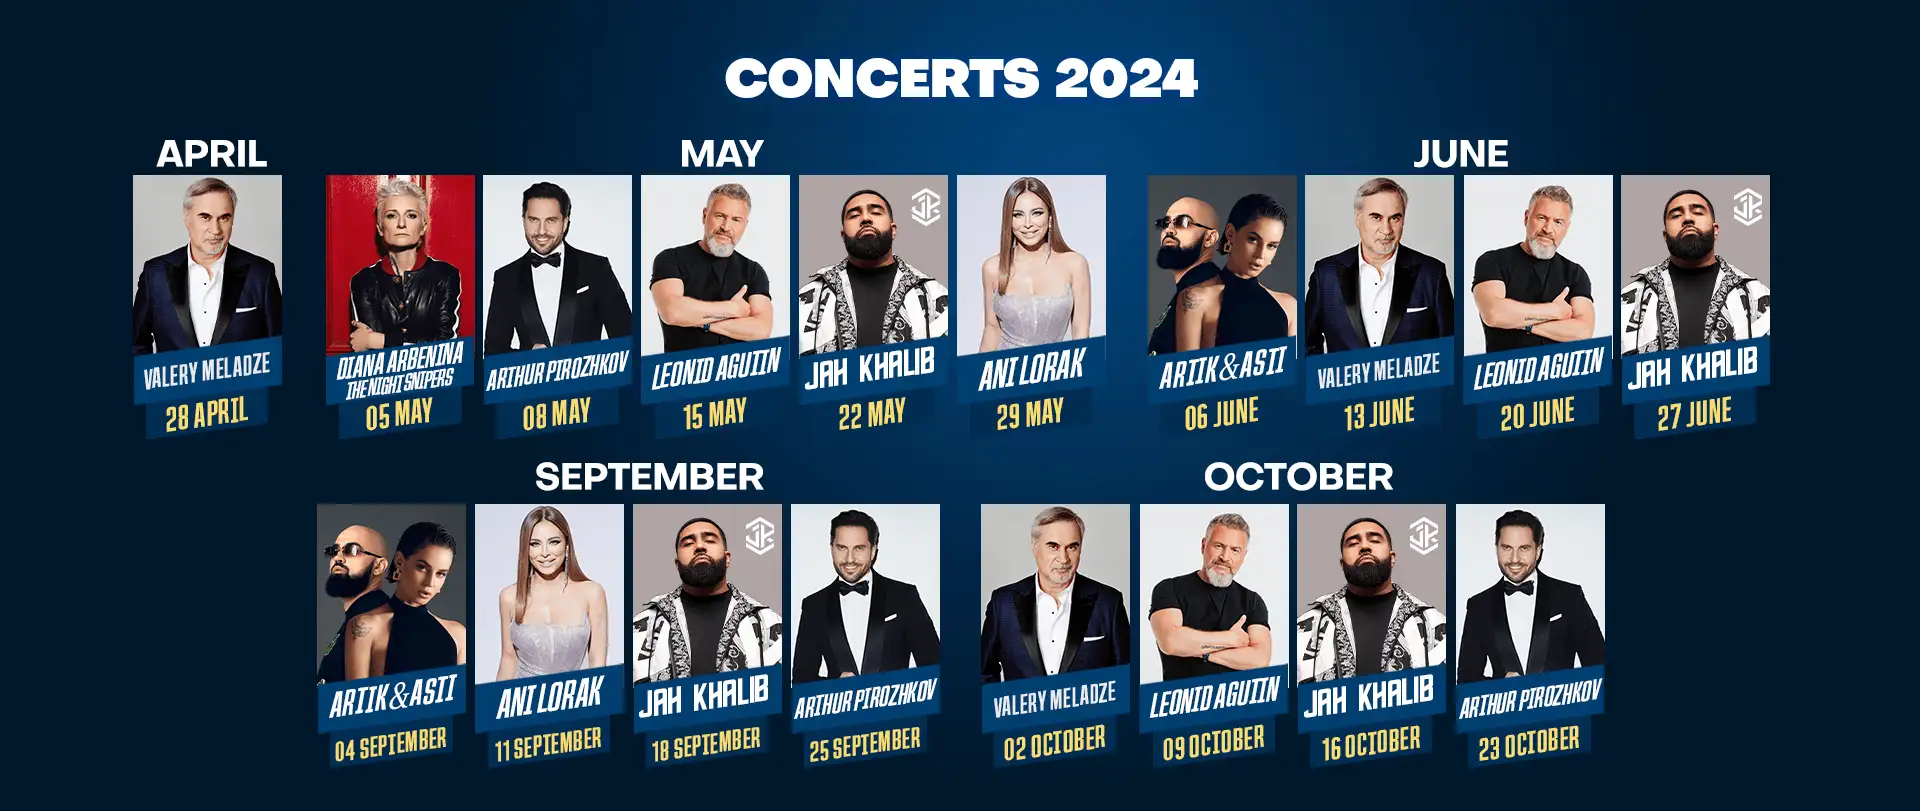
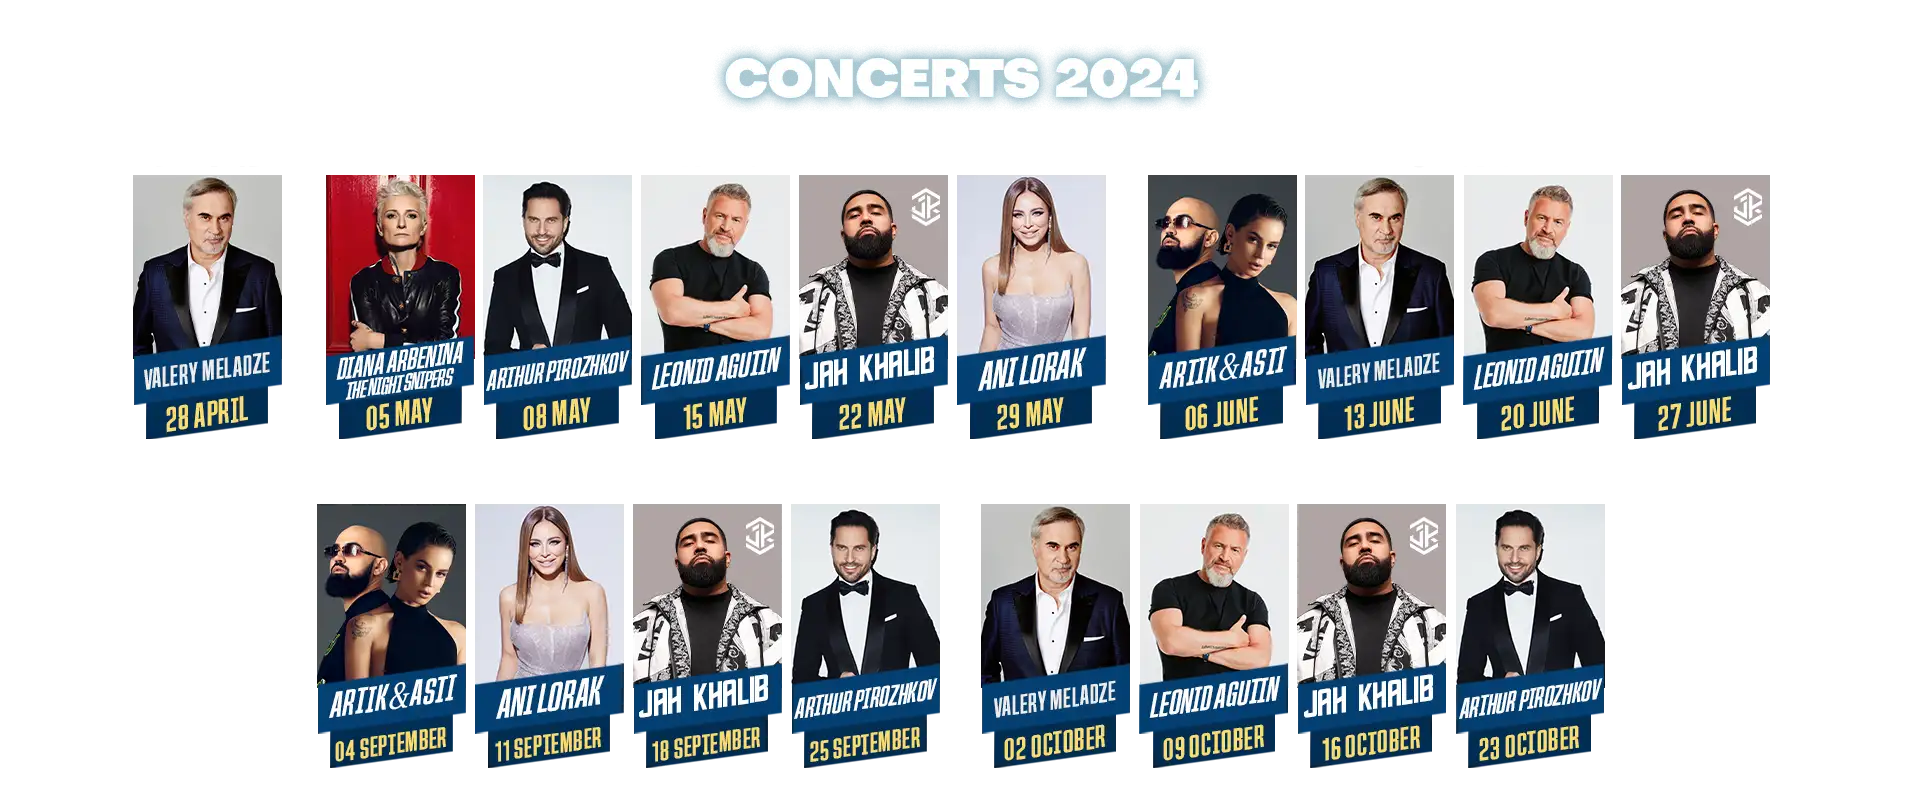
fix

diff --git a/resources/views/components/home/heroSwiper.blade.php b/resources/views/components/home/heroSwiper.blade.php
@@ -16,13 +16,17 @@
 
 @endphp
 
-<div id="heroSwiperWrapper">
+<div class="tempheaderBg">
+    &nbsp;
+</div>
+
+<div class="heroSwiperWrapper" id="heroSwiperWrapper ">
     <div class="swiper-container heroTopSwiper">
-        <div class="heroText">
+        {{-- <div class="heroText">
             <h1>{!! $translation[$lang]['h1'] !!}</h1>
             <img loading="lazy" class="heroLogo" src="{{ asset('assets/frontend/images/home/heroLogoBig.webp') }}" alt="logo" />
-        </div>
-        <div class="heroSocialMediaIcon">
+        </div> --}}
+        <div class="heroSocialMediaIcon" style="">
             <a href="https://www.youtube.com/user/portnaturehotel" target="_blank">
                 <img loading="lazy" src="{{ asset('assets/frontend/images/youtubewhite.svg') }}" alt="portnatureyoutube" />
             </a>
@@ -38,30 +42,35 @@
             <a href="https://www.tripadvisor.com/Hotel_Review-g4833191-d6427728-Reviews-Port_Nature_Luxury_Resort_Hotel_Spa-Bogazkent_Serik_District_Turkish_Mediterranean_Co.html" target="_blank">
                 <img loading="lazy" src="{{ asset('assets/frontend/images/tripadvisorwhite.svg') }}" alt="tripadvisor" />
             </a>
+
         </div>
+
         <div class="swiper-wrapper">
             <div class="swiper-slide">
-                {{-- if lang ru --}}
+
                 @if ($lang == 'ru')
                     <picture class="w-100 ">
-                        <source media="(max-width: 420px)" srcset="{{ asset('assets/frontend/images/home/banner/2024-KONSERLER-RU.webp') }}" />
+                        <source media="(max-width: 420px)" srcset="{{ asset('assets/frontend/images/home/banner/2024-KONSERLER-RU-MOBILE.png') }}" />
                         <source media="(min-width: 420px) and (max-width: 1024px)" srcset="{{ asset('assets/frontend/images/home/banner/2024-KONSERLER-RU.webp') }}" />
                         <source media="(min-width: 1024px) and (max-width: 1920px)" srcset="{{ asset('assets/frontend/images/home/banner/2024-KONSERLER-RU.webp') }}" />
                         <source media="(min-width: 1920px)" srcset="{{ asset('assets/frontend/images/home/banner/2024-KONSERLER-RU.webp') }}" />
-                        <img src="{{ asset('assets/frontend/images/home/banner/2024-KONSERLER-RU.webp') }}" class="d-block homeHeroSwiperImg " fetchpriority="high" alt="Hotel image during the day" />
+                        <img src="{{ asset('assets/frontend/images/home/banner/2024-KONSERLER-RU.webp') }}" class="d-block homeHeroSwiperImg object-fit-contain" fetchpriority="high"
+                            alt="Hotel image during the day" />
 
                     </picture>
                 @else
                     <picture class="w-100 ">
-                        <source media="(max-width: 420px)" srcset="{{ asset('assets/frontend/images/home/banner/2024-KONSERLER-ING.webp') }}" />
-                        <source media="(min-width: 420px) and (max-width: 1024px)" srcset="{{ asset('assets/frontend/images/home/banner/2024-KONSERLER-ING.webp') }}" />
+                        <source media="(max-width: 640px)" srcset="{{ asset('assets/frontend/images/home/banner/2024-KONSERLER-ING-MOBILE.png') }}" />
+                        <source media="(min-width: 640px) and (max-width: 1024px)" srcset="{{ asset('assets/frontend/images/home/banner/2024-KONSERLER-ING.webp') }}" />
                         <source media="(min-width: 1024px) and (max-width: 1920px)" srcset="{{ asset('assets/frontend/images/home/banner/2024-KONSERLER-ING.webp') }}" />
                         <source media="(min-width: 1920px)" srcset="{{ asset('assets/frontend/images/home/banner/2024-KONSERLER-ING.webp') }}" />
-                        <img src="{{ asset('assets/frontend/images/home/banner/2024-KONSERLER-ING.webp') }}" class="d-block homeHeroSwiperImg object-fit-cover" fetchpriority="high"
+                        <img src="{{ asset('assets/frontend/images/home/banner/2024-KONSERLER-ING.webp') }}" class="d-block homeHeroSwiperImg object-fit-contain" fetchpriority="high"
                             alt="Hotel image during the day" />
 
                     </picture>
                 @endif
+                <img src="{{ asset('assets/frontend/images/home/banner/2024-KONSERLER-BG.png') }}" class="d-block homeHeroSwiperImg object-fit-cover position-absolute" fetchpriority="high"
+                    alt="Hotel image during the day" style="z-index: -1;top:0" />
 
             </div>
             <div class="swiper-slide">
@@ -114,3 +123,29 @@
     </div>
 
 </div>
+<style>
+    @media (max-width: 1024px) {
+        .heroSocialMediaIcon {
+            flex-direction: column;
+            left: 20px;
+            justify-content: center
+        }
+
+        .heroSocialMediaIcon a {
+            width: 50px;
+            display: flex;
+            justify-content: center;
+        }
+
+        .heroSwiperWrapper {
+            margin-top: 89px !important;
+        }
+        .tempheaderBg {
+            height: 89px;
+            background: #000;
+            position: absolute;
+            width: 100vw;
+            z-index: 1;
+        }
+    }
+</style>

diff --git a/resources/views/components/home/accommdationSwiper.blade.php b/resources/views/components/home/accommdationSwiper.blade.php
@@ -109,12 +109,12 @@
 
 <div class="homeAccommdation">
     <div class="homeAccommodationWrapper">
-        <article>
+        <div class="d-flex flex-column">
             <h2> {!! $translation[$lang]['h2'] !!}</h2>
             <h3>
                 {!! $translation[$lang]['h6'] !!}
             </h3>
-        </article>
+        </div>
         <div class="swiper Roomswiper" role="region" aria-label="Accommodation Options">
             <div class="swiper-wrapper" style="padding-bottom: 200px">
                 <div class="swiper-slide">
